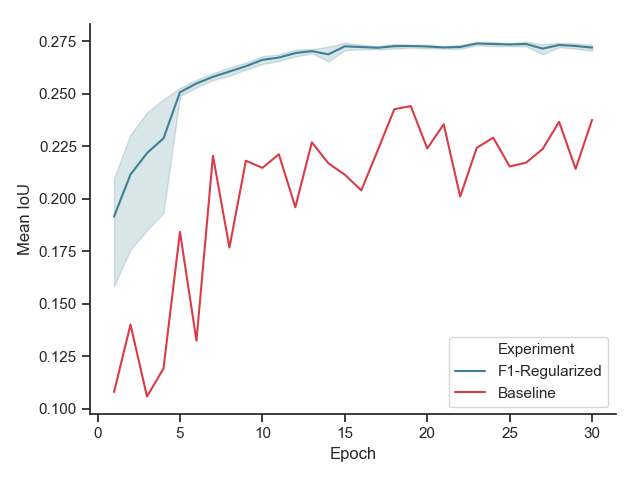
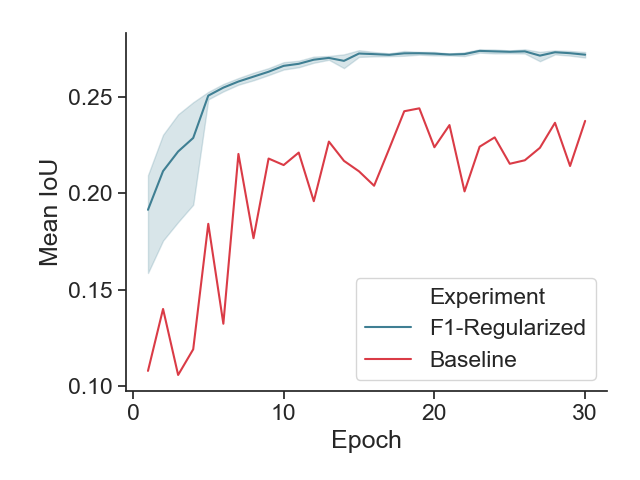
stop

diff --git a/scripts/coco_stuff_small_confidences/plot.py b/scripts/coco_stuff_small_confidences/plot.py
@@ -4,13 +4,14 @@ import os
 import seaborn as sns
 
 PALETTE = sns.diverging_palette(220, 10, n=7)
+FONT_SCALE = 1.5
+STYLE = "ticks"
+CONTEXT = "paper"
 
 
 def set_styles():
-    # Seaborn
-    sns.set_context("paper")
-    sns.set(style="ticks", font_scale=1)
-    # sns.set_palette(sns.color_palette("RdBu_r", 7))
+    sns.set_context(CONTEXT)
+    sns.set(style=STYLE, font_scale=FONT_SCALE)
     sns.set_palette(PALETTE)
 
 
